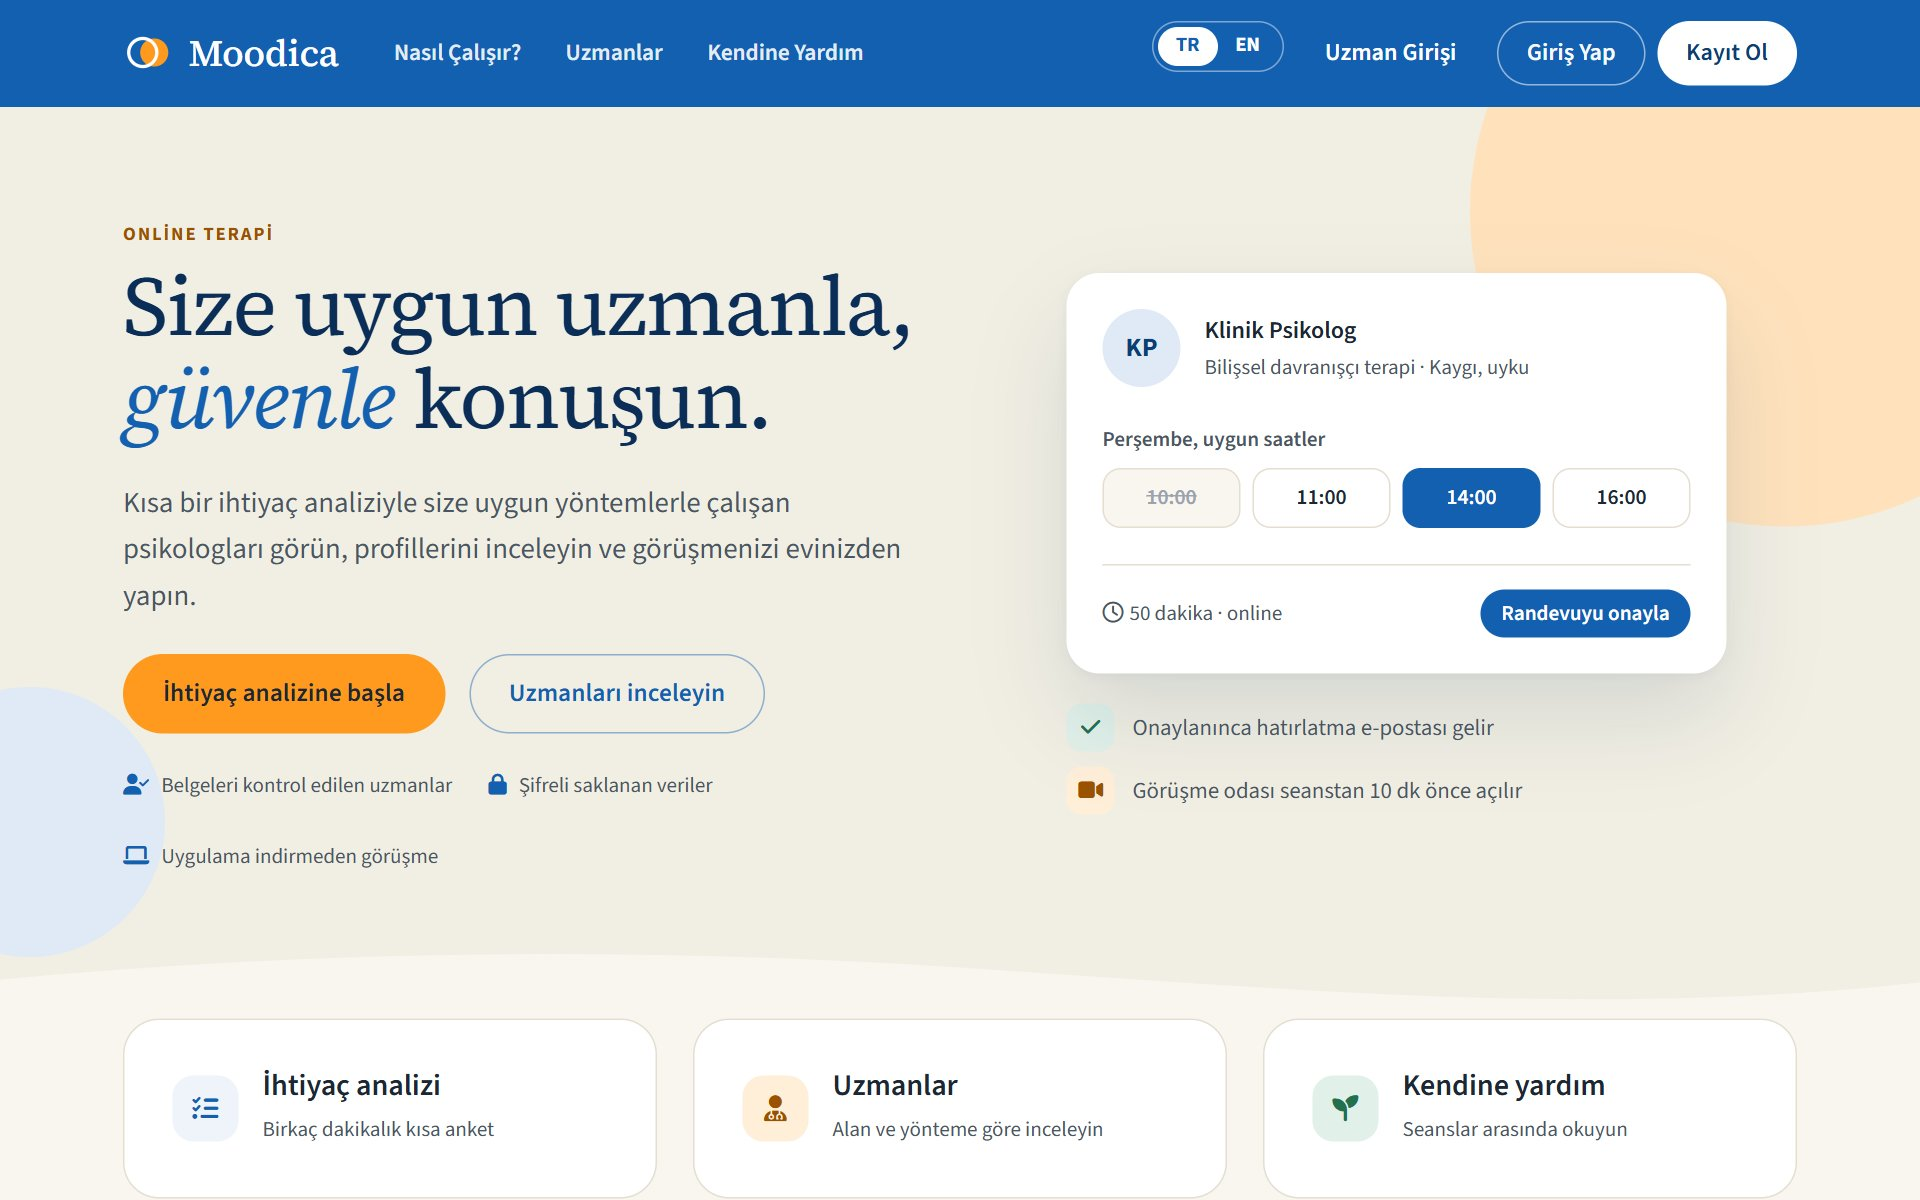
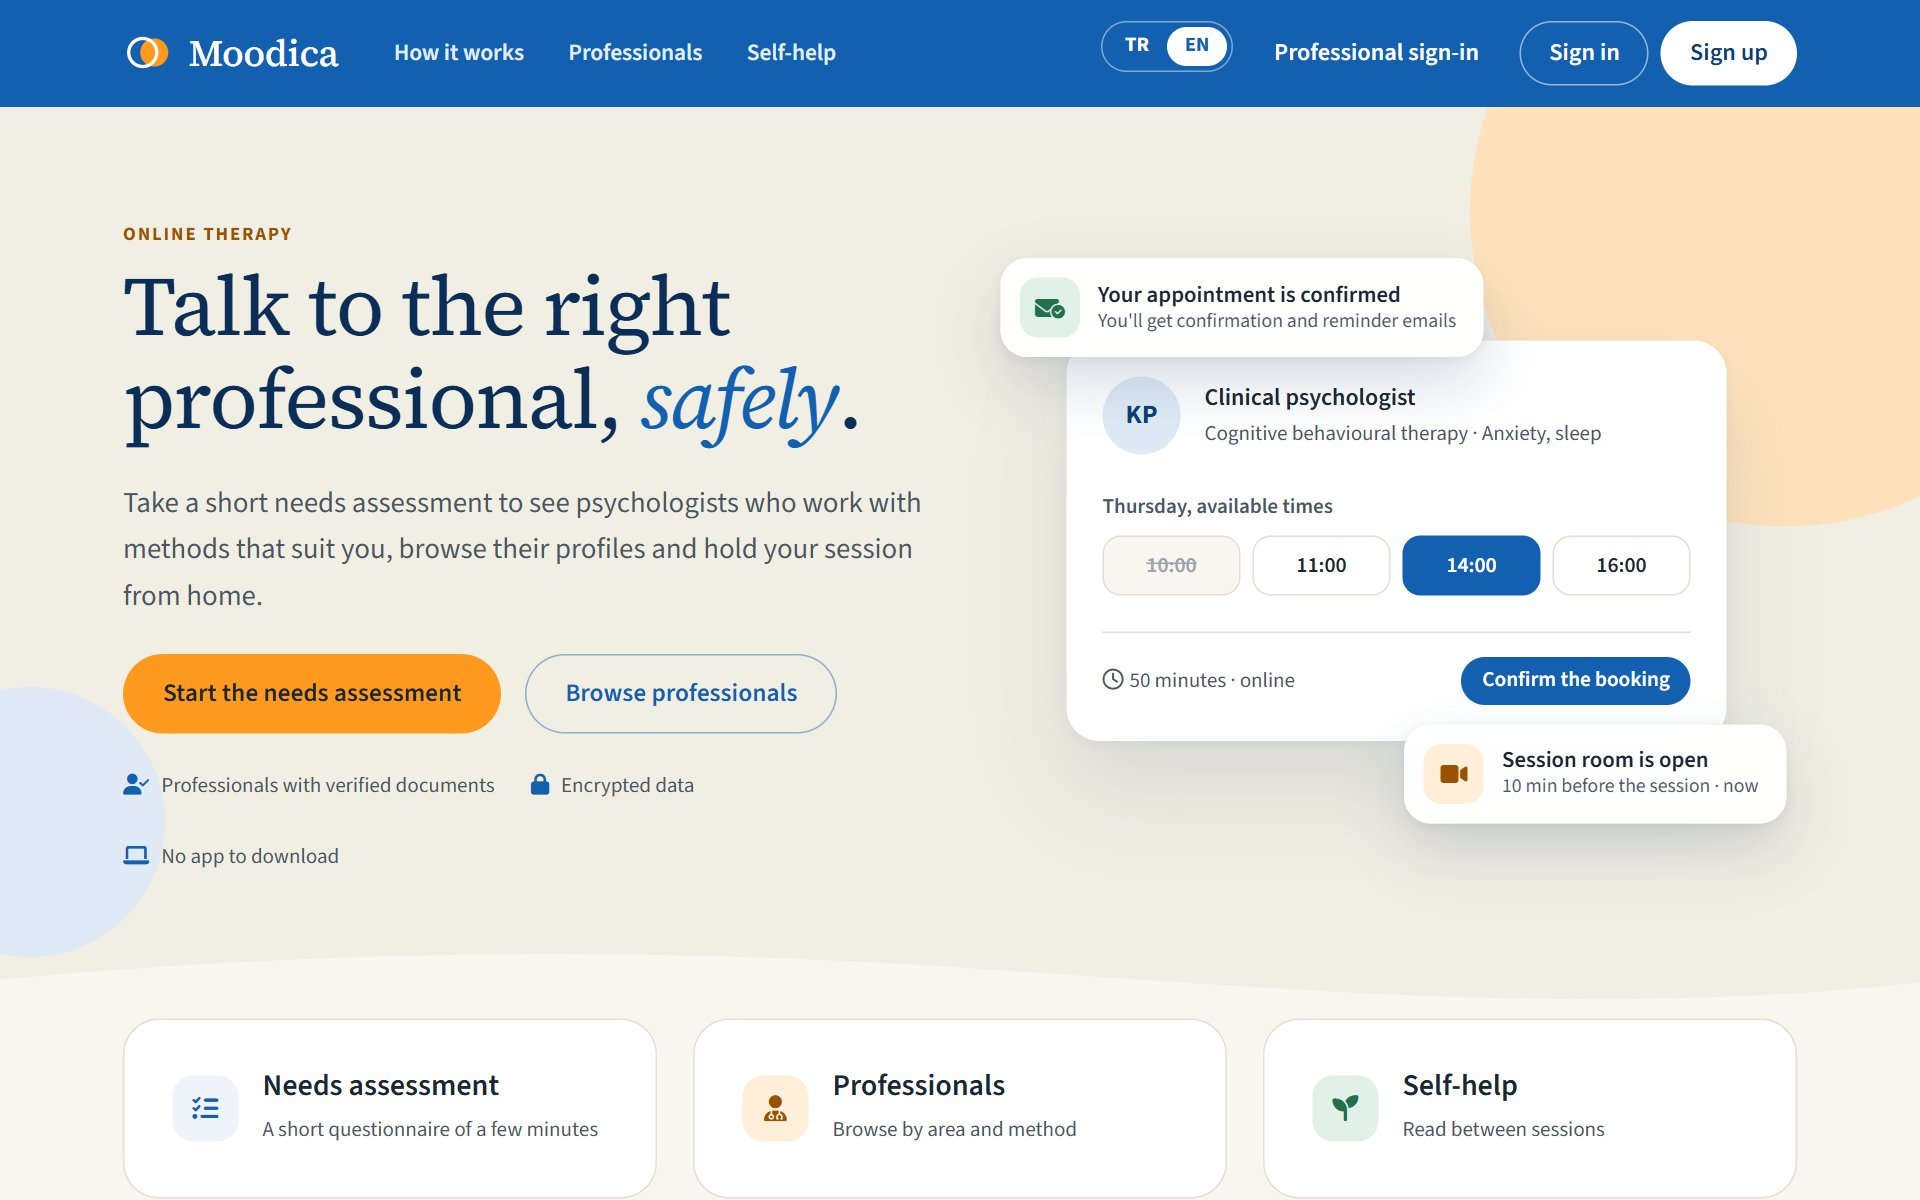
chore(vitrin): ana sayfa ekran görüntülerini yeni bildirim kutularıyla güncelle
Değişen dosyalar:
- docs/ekran/ana-sayfa.jpg
- docs/ekran/telefon.jpg

Kaynak: 422a1527776bd1467138aafeba8e31143d080080

diff --git a/PROVENANCE.md b/PROVENANCE.md
@@ -4,8 +4,8 @@
 
 Bu depo, private ana projeden `tools/export_public.py` ile otomatik üretilir; elle düzenlenmez.
 
-- Kaynak commit: `08ec7c57536256c18a6675f27e994d37909289e5`
-- Kaynak commit tarihi: 2026-10-29T15:11:20+03:00
+- Kaynak commit: `422a1527776bd1467138aafeba8e31143d080080`
+- Kaynak commit tarihi: 2026-10-29T15:51:16+03:00
 - Dosya sayısı: 62
 
 | Dosya | SHA-256 |
@@ -67,8 +67,8 @@ Bu depo, private ana projeden `tools/export_public.py` ile otomatik üretilir; e
[10 lines of base64/hex data omitted]
